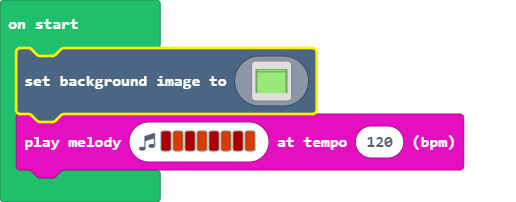
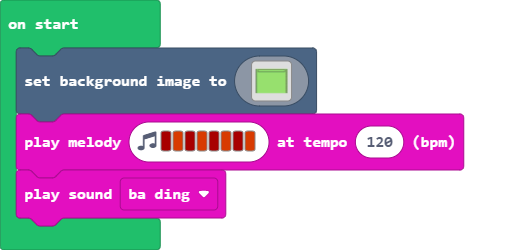
e

diff --git a/main.ts b/main.ts
@@ -121,3 +121,4 @@ scene.setBackgroundImage(img`
     7777777777777777777777777777777777777777777777777777777777777777777777777777777777777777777777777777777777777777777777777777777777777777777777777777777777777777
     `)
 music.playMelody("C5 B C5 B C5 B C5 B ", 120)
+music.baDing.play()
